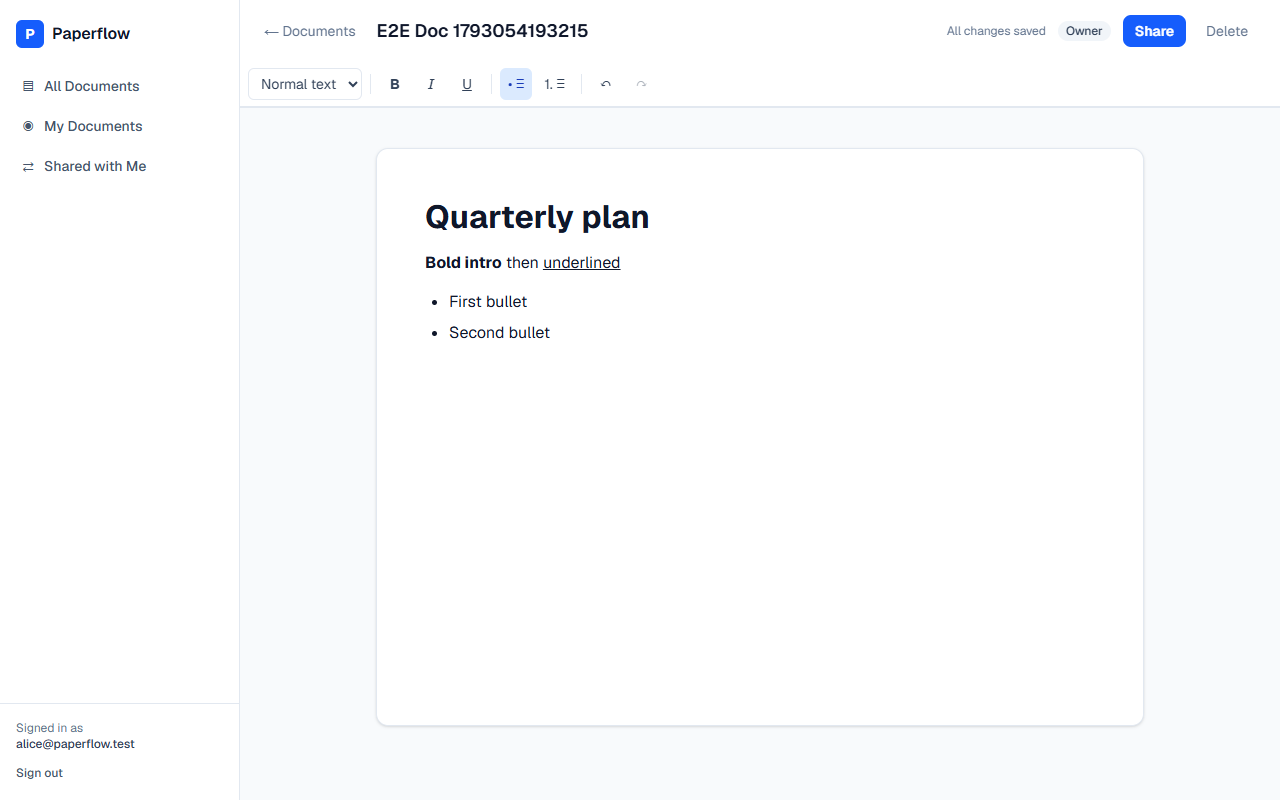
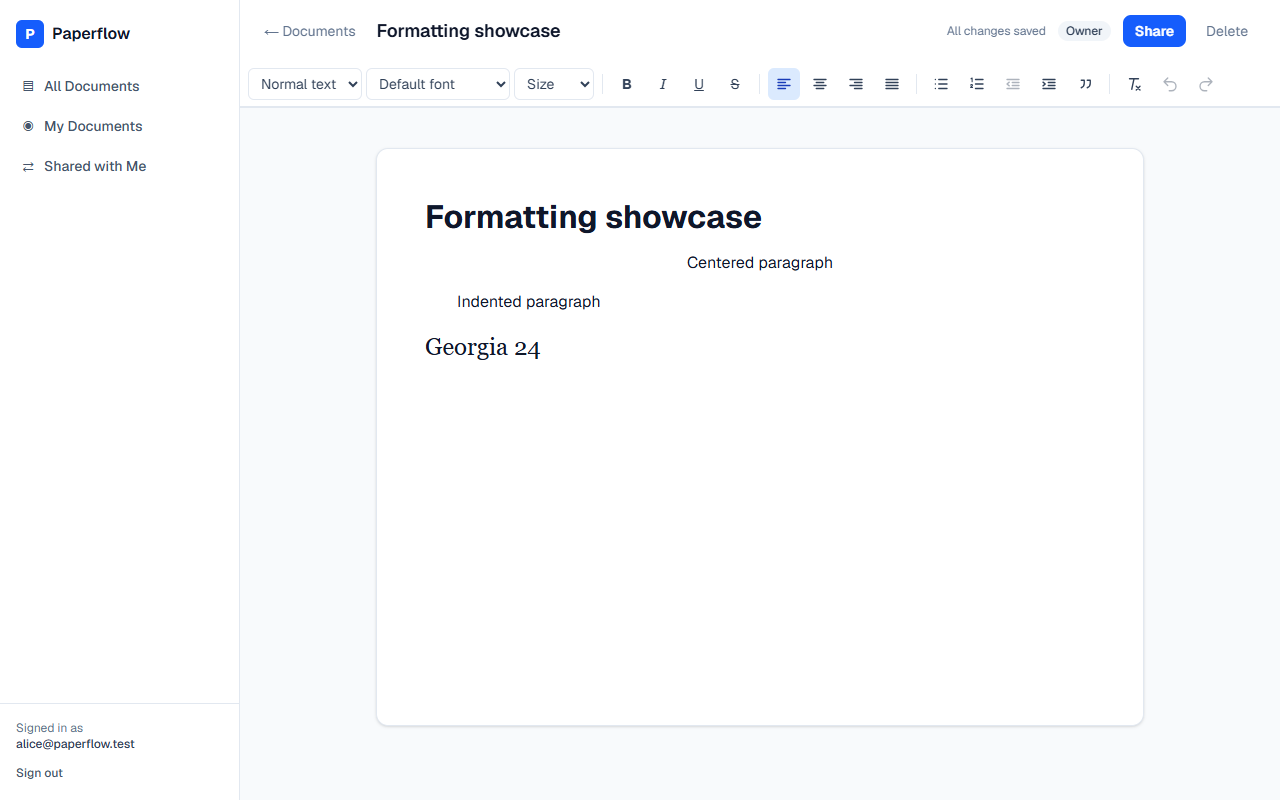
Docs: richer formatting, import fix, updated verification

diff --git a/README.md b/README.md
@@ -10,8 +10,8 @@ A lightweight collaborative document editor: create, format, import, and share d
 ## Features
 
 - **Documents**: create, rename (inline title), edit, delete (owner only); autosave with a visible status (`Unsaved changes` → `Saving…` → `All changes saved`, or `Not saved` + Retry). `Ctrl/Cmd+S` saves immediately, and you're warned before leaving with unsaved changes.
-- **Rich text** (Tiptap): bold, italic, underline, Normal / Heading 1–3, bulleted and numbered lists, undo/redo. Content is stored as Tiptap JSON, so formatting and structure survive reloads.
-- **Import**: **`.txt` and `.md` files only, up to 1 MB.** Each import creates a new editable document titled from the file name. Markdown headings, emphasis, lists, links, quotes, and code are converted; raw HTML, images, and scripts are dropped. Unsupported, empty, or oversized files show a clear error. `.docx` is **not** supported.
+- **Rich text** (Tiptap): Normal / Heading 1–3, font family, font size, bold, italic, underline, strikethrough, left/center/right/justify alignment, bulleted and numbered lists, indent/outdent (toolbar or `Tab` / `Shift+Tab`, nests list items or indents paragraphs), block quotes, clear formatting, undo/redo. Content is stored as Tiptap JSON, so formatting and structure survive reloads. Fonts, sizes, alignments, and indent levels come from a fixed allow-list, which the server enforces too.
+- **Import**: **`.txt` and `.md` files only, up to 1 MB.** Each import creates a new editable document titled from the file name. Markdown headings, emphasis, lists, absolute links, quotes, and code are converted. Relative links (e.g. `README.md`) become plain text; raw HTML, images, and scripts are dropped. Unsupported, empty, or oversized files show a clear error. `.docx` is **not** supported.
 - **Sharing**: the owner shares by email with an **existing** Paperflow user as **Can edit** or **Can view**, and can change or revoke access. The sidebar separates *All Documents*, *My Documents*, and *Shared with Me*, and badges show owner vs. shared access.
 - **Dashboard**: title search, empty, loading, and error states, responsive down to phone width.
 
@@ -60,7 +60,8 @@ Sign in as `alice@…` in one browser and `bob@…` in a private window (or crea
 - `src/lib/validation.test.ts`: title/email rules, Tiptap content allow-list (rejects `script` nodes, `javascript:` links, oversized or deeply nested docs), import file validation.
 - `src/lib/editor/import.test.ts`: `.txt` paragraphs and line breaks, Markdown → headings/marks/lists, XSS payloads stripped, output serialisable for Server Actions.
 - `src/components/editor/use-autosave.test.ts`: debounce and patch merging, retry after failure, edits made during an in-flight save.
-- `src/components/editor/toolbar.test.tsx`: toolbar applies bold/underline/headings/lists to a real Tiptap editor; formatting round-trips through JSON.
+- `src/components/editor/toolbar.test.tsx`: toolbar applies bold/underline/headings/lists/font/size/alignment/indent to a real Tiptap editor; formatting round-trips through JSON.
+- `src/lib/editor/formatting.test.ts`: style values outside the allow-list (CSS injection via font names, unknown sizes, colours) are rejected by the server and normalised away on the client.
 - `src/components/import-button.test.tsx`: UI rejects unsupported and empty files; imports Markdown and navigates to the new document.
 - `tests/integration/rls.test.ts`: against the real database, with only the public key: strangers can't read, update, delete, or share by ID; viewer vs. editor rights; owner can't be changed; revocation; unknown-user and self-share handling; profiles aren't enumerable.
 

diff --git a/AI_WORKFLOW.md b/AI_WORKFLOW.md
@@ -26,7 +26,10 @@ The project uses very recent majors (Next.js 16.4, React 19.3, Tiptap 3.32, @sup
 2. **Scaffold defaults rejected.** `create-next-app` enabled `cacheComponents` and `partialPrefetching`. For an app where every route is per-user and cookie-authenticated, those add complexity and a risk of serving one user's data from a shared cache, so they were turned off (reasoning in ARCHITECTURE.md).
 3. **Recursive autosave rejected by lint.** The first `useAutosave` called itself recursively; the React Compiler lint rule (`react-hooks/immutability`) flagged it, and it was rewritten as a loop.
 4. **Test assumptions corrected.** A test expected `<h1>…</h1>` exactly, but StarterKit's `trailingNode` appends an empty paragraph, so the assertion was relaxed to match real behaviour. Another E2E check read the wrong `role="alert"` element (Next.js's route announcer also uses that role), so the selector was scoped.
-5. **Infrastructure fixes.** The direct Postgres host is IPv6-only and unreachable from the dev network, so the migration was applied through Supabase's IPv4 session pooler. The pasted connection string also still had the template's `[ ]` around the password.
+5. **Import rejected real-world Markdown (found by me during manual testing).** Importing `SUBMISSION.md` failed with "links must use http, https or mailto": the editor accepted relative links like `[VIDEO_URL.txt](VIDEO_URL.txt)`, but the server allow-list (correctly) did not. Fix: the editor's link rule now uses the same `SAFE_HREF` regex as the server, so relative links import as plain text. A client-side `normalizeContent()` strips any other unsupported values (e.g. a pasted "Comic Sans" font) before saving instead of blocking autosave. A regression test imports every Markdown file in this repo.
+6. **Toolbar scope expanded after my review.** The first toolbar covered only the spec's minimum. I asked for font selection, indentation, and more. The agent added Tiptap's official text-style/text-align extensions plus a small custom paragraph-indent extension (Tiptap only ships list nesting), with every style value allow-listed on the server so formatting can't be used to inject CSS.
+7. **A deploy failed on a test-file type error** that `vitest` didn't catch (Vitest doesn't type-check; `next build` does). The failed Vercel build left the previous version serving; it was fixed and redeployed, and `npm run check` includes `typecheck` for this reason.
+8. **Infrastructure fixes.** The direct Postgres host is IPv6-only and unreachable from the dev network, so the migration was applied through Supabase's IPv4 session pooler. The pasted connection string also still had the template's `[ ]` around the password.
 
 ## How correctness and UX were verified
 
@@ -34,7 +37,7 @@ The project uses very recent majors (Next.js 16.4, React 19.3, Tiptap 3.32, @sup
 |---|---|
 | `npm run lint` | clean |
 | `npm run typecheck` (strict) | clean |
-| `npm test` | 29 unit/component tests passing |
+| `npm test` | 39 unit/component tests passing |
 | `npm run test:integration` (live Supabase, two real users, public key only) | 7/7 passing |
 | `npm run build` | passing |
 | Browser E2E (Edge via playwright-core, script kept outside the repo) against the local production build | 25/25 checks |

diff --git a/SUBMISSION.md b/SUBMISSION.md
@@ -29,21 +29,22 @@ You can also create your own account on the sign-in page. Email confirmation is 
 | Requirement | Status |
 |---|---|
 | Create, rename, edit, save, reopen documents | ✅ Autosave with status, retry on failure, unsaved-changes warning |
-| Bold, italic, underline, headings (H1–H3), bulleted and numbered lists | ✅ Stored as Tiptap JSON; persists across reloads |
+| Bold, italic, underline, headings (H1–H3), bulleted and numbered lists | ✅ Plus font family, font size, strikethrough, alignment, indent/outdent, quotes, clear formatting. Stored as Tiptap JSON; persists across reloads |
 | Import `.txt` and `.md` into a new editable document | ✅ Type, size (1 MB), and empty-content validation with clear errors. **No `.docx`.** |
 | Owner shares with another authenticated user by email | ✅ Viewer / editor permissions; change and revoke |
 | Owned vs. shared clearly distinguished | ✅ Sidebar views (All / My / Shared with Me) + badges + owner email |
 | Enforced on the server/database | ✅ Supabase RLS + column grants + `SECURITY DEFINER` share function; verified by live tests as a second user |
 | Supabase Auth + Postgres persistence | ✅ Email/password; no service-role key in the app |
-| Tests | ✅ 29 unit/component tests + 7 live RLS integration tests |
+| Tests | ✅ 39 unit/component tests + 7 live RLS integration tests |
 | Docs | ✅ README, ARCHITECTURE, AI_WORKFLOW, this file, screenshots in `docs/screenshots/` |
 | Deployed | ✅ Vercel (production) |
 
 ## Verification performed
 
-- `npm run lint`, `npm run typecheck`, `npm test` (29 passing), `npm run build`: all clean.
+- `npm run lint`, `npm run typecheck`, `npm test` (29 passing), `npm run build`: all clean (39 tests).
 - `npm run test:integration`: **7/7** live RLS tests passing against the production Supabase project.
 - Browser end-to-end run (25 checks) against the local production build: **25/25**.
+- Formatting check on production: imported this repo's `SUBMISSION.md` (relative links become text, absolute links stay); alignment, indent, font family, and size persist after reload.
 - The same E2E run against the deployed URL: **26/26** (adds a check that the recipient sees upgraded editor access).
 
 ## Known limitations

diff --git a/ARCHITECTURE.md b/ARCHITECTURE.md
@@ -57,7 +57,7 @@ Additional hardening:
 - **`share_document(document_id, email, permission)`** is `SECURITY DEFINER` with an empty `search_path`. It checks that `auth.uid()` owns the document, resolves the email to an existing user, refuses self-shares, and upserts (`created` / `updated` / `unchanged`). A trigger also blocks sharing a document with its owner.
 - RLS helper functions (`is_document_owner`, `document_share_permission`, `can_view_profile`) are `SECURITY DEFINER` to avoid recursive policy evaluation between `documents` and `document_shares`; each answers only about `auth.uid()`.
 - **No service-role key** anywhere in the app. The browser only ever has the publishable key, so the live RLS test suite (`tests/integration/rls.test.ts`) attacks the database with exactly the access an attacker would have.
-- **Content safety**: documents are stored as Tiptap JSON and rendered only through the Tiptap/ProseMirror schema, never via `dangerouslySetInnerHTML`. On save, the server validates an allow-list of node and mark types, `http/https/mailto`-only links, max nesting depth, and size. Markdown import goes Markdown → HTML (marked) → `generateJSON` with the editor schema, which drops anything the schema doesn't define (scripts, images, raw HTML, event handlers).
+- **Content safety**: documents are stored as Tiptap JSON and rendered only through the Tiptap/ProseMirror schema, never via `dangerouslySetInnerHTML`. On save, the server validates an allow-list of node and mark types, `http/https/mailto`-only links, allow-listed font families/sizes/alignments/indent levels (so `style` attributes can't carry arbitrary CSS), max nesting depth, and size. The client normalises editor JSON to the same rules before sending (`normalizeContent`), so pasted styles never block autosave. Markdown import goes Markdown → HTML (marked) → `generateJSON` with the editor schema, which drops anything the schema doesn't define (scripts, images, raw HTML, event handlers).
 - Basic security headers (`nosniff`, `X-Frame-Options: DENY`, referrer policy).
 
 ## Key decisions and trade-offs
